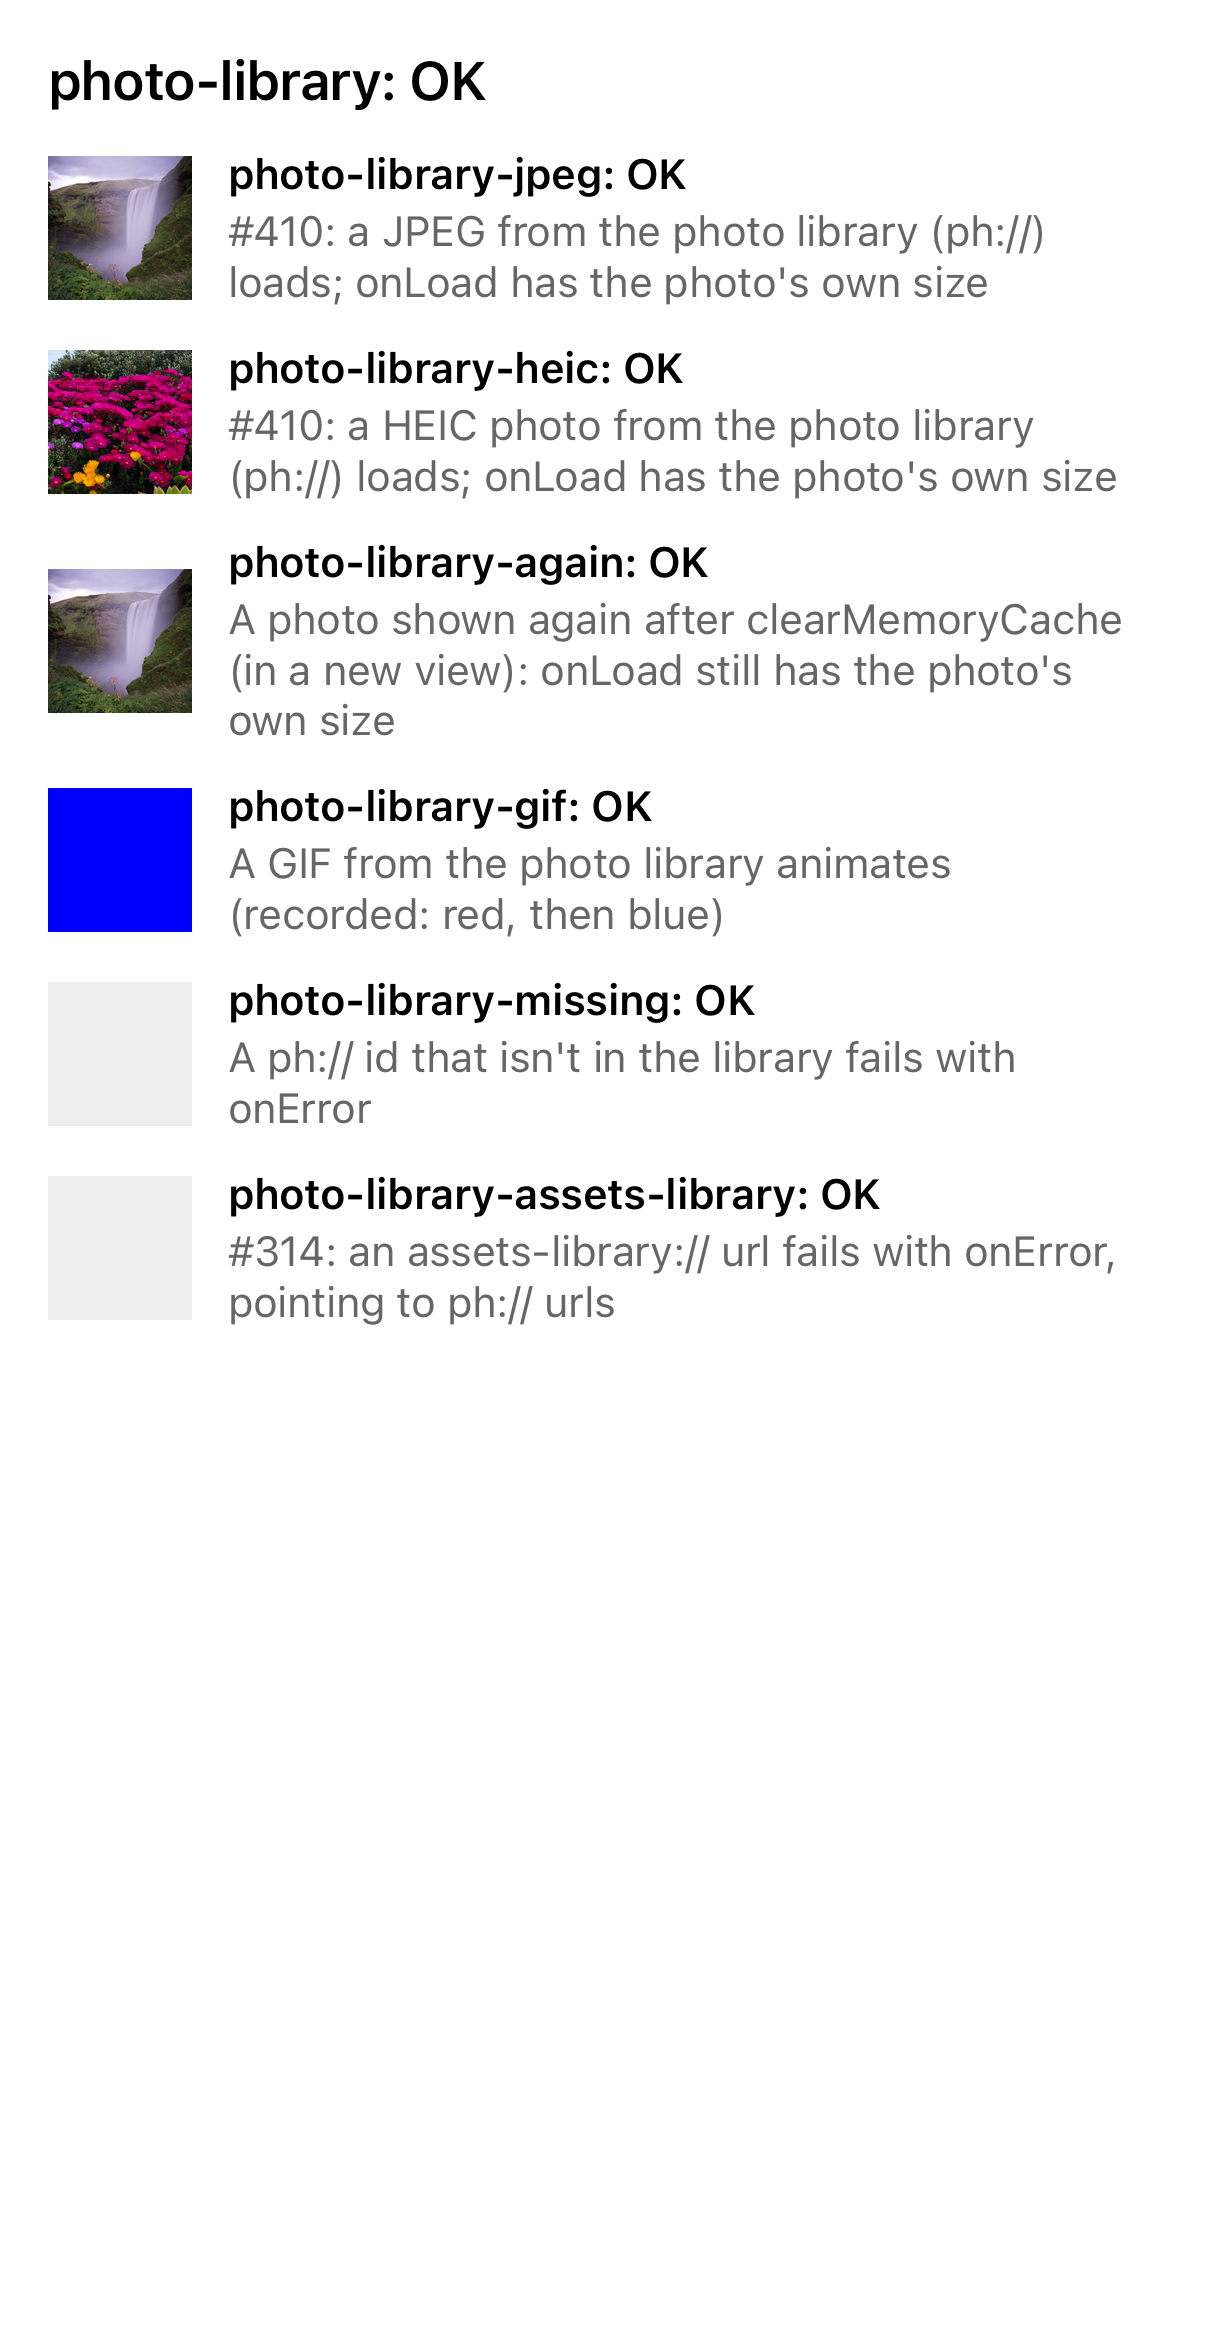
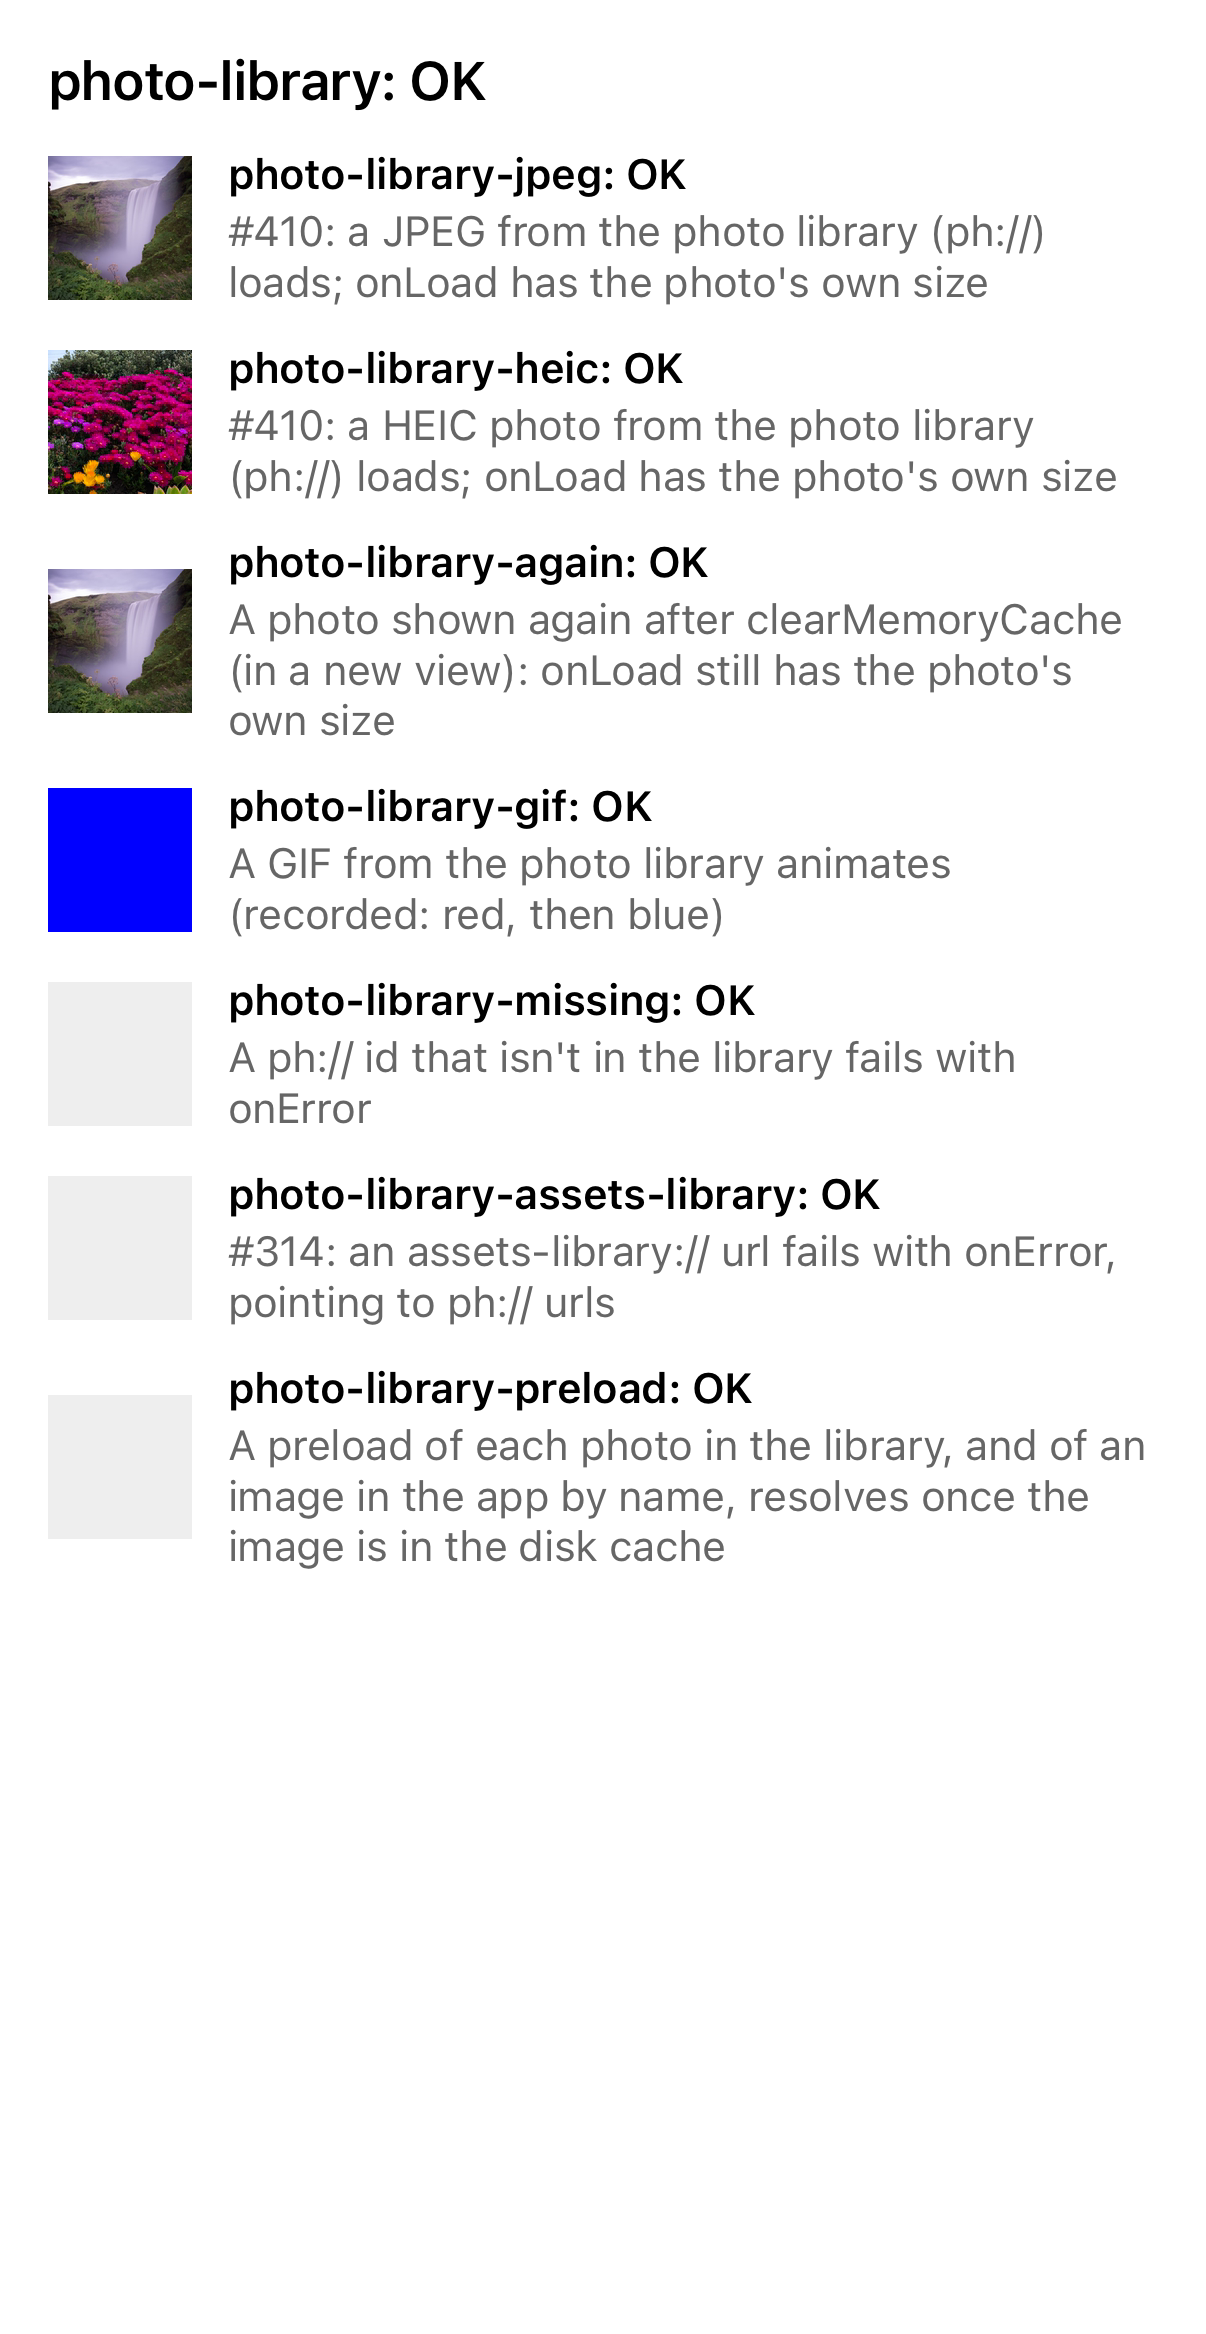
fix(ios): preloads of photo library images and images in the app by name resolve once their image is stored
These preloads resolved once the image had loaded. A still photo from the
photo library or an image in the app by name comes without its data, and
SDWebImage then encoded the image and wrote its file in the background:
the promise resolved while that work was still going on, and an image
preloaded just before clearDiskCache could be written after the clear.
They now use SDWebImageWaitStoreCache, as other preloads do, and resolve
once the file is written.

The work takes as long as before; the promise now includes it. The
iPhone simulator's 7 library images (photos of up to 4288x2848, and a
GIF), preloaded one at a time with nothing cached, resolved in about 0.26
to 0.28 s in all without the wait, while their files were on disk after
about 0.93 to 0.96 s; with the wait, they resolve in about 0.89 to 0.94 s.

The photo-library regression group gets a case: each image in the photo
library, and the quadrants by name in the app, preloaded to disk only
under a cacheKey of its own, must be in the disk cache as soon as its
preload resolves. Its reference screenshots on iOS (both example apps)
and tvOS are seeded again.

Changed region(s): [[0.1841, 0.5861, 0.9511, 0.6787]]

diff --git a/ReactNativeFastImageExample/src/RegressionExample.tsx b/ReactNativeFastImageExample/src/RegressionExample.tsx
@@ -6568,6 +6568,73 @@ function PhotoLibraryErrorCase({
     )
 }
 
+// A preload resolves once its image is stored, also an image that comes
+// without its data, which SDWebImage encodes before it writes its file: each
+// image in the photo library (in the iPhone simulator, photos of up to
+// 4288x2848; a GIF comes with its data) and the quadrants by name in the
+// app. Each is preloaded on its own, to disk only (memoryCache false, so the
+// photos aren't kept in memory), under a cacheKey of this run's, so nothing
+// was cached under it before. As soon as its preload resolves ok,
+// getCachePath with only that cacheKey (a lookup in the disk cache) must
+// find its file. These preloads resolved once the image had loaded, before
+// it was encoded and written: the photos' files and the app image's weren't
+// there yet (on tvOS, whose library has only 80x80 images, the app image's).
+const PHOTO_PRELOAD = `photo-preload-${RUN}`
+function PhotoLibraryPreloadCase() {
+    const [status, setStatus] = useState('listing the photo library')
+    useEffect(() => {
+        let stopped = false
+        const run = async () => {
+            const { authorized, photos } = await libraryPhotos()
+            if (!authorized) return setStatus('no photo library access')
+            if (photos.length === 0) {
+                return setStatus('no photos in the library')
+            }
+            setStatus('preloading')
+            const images = [
+                ...photos.map((photo) => ({
+                    name: `the ${photo.width}x${photo.height} ${photo.type} photo`,
+                    uri: `ph://${photo.id}`,
+                })),
+                { name: 'the image in the app', uri: 'regression_quadrants' },
+            ]
+            const problems: string[] = []
+            for (const [i, { name, uri }] of images.entries()) {
+                const cacheKey = `${PHOTO_PRELOAD}-${i}`
+                const [result] = await FastImage.preload([
+                    { uri, cacheKey, memoryCache: false },
+                ])
+                if (!result.ok) {
+                    problems.push(`${name}: ${result.error}`)
+                    continue
+                }
+                const file = await FastImage.getCachePath({ cacheKey })
+                if (!file.ok) {
+                    problems.push(
+                        `${name}: not in the disk cache when its preload resolved`,
+                    )
+                }
+                if (stopped) return
+            }
+            setStatus(problems.length > 0 ? problems.join('; ') : 'OK')
+        }
+        run().catch((e) => setStatus(`error: ${e}`))
+        return () => {
+            stopped = true
+        }
+    }, [])
+    return (
+        <View style={styles.row}>
+            <View style={styles.image} />
+            <CaseStatus
+                id="photo-library-preload"
+                status={status}
+                description="A preload of each photo in the library, and of an image in the app by name, resolves once the image is in the disk cache"
+            />
+        </View>
+    )
+}
+
 export type { RegressionGroup }
 
 // resizeMode repeat: the image repeated from the top-left at its own size, as
@@ -8417,6 +8484,7 @@ export const REGRESSION_GROUPS: RegressionGroup[] = [
                           expected="ph://"
                           description="#314: an assets-library:// url fails with onError, pointing to ph:// urls"
                       />,
+                      <PhotoLibraryPreloadCase key="photo-library-preload" />,
                   ]
                 : [
                       <NoCrashCase

diff --git a/ios/FastImage/FFFastImageViewManager.m b/ios/FastImage/FFFastImageViewManager.m
@@ -107,14 +107,14 @@ static NSMutableArray<FFFQueuedLoad *> *FFFParked;
 // cancelForClear:). One cancelled before SDWebImage's check reports back at
 // once. One past it is storing its image: a downloaded image's file is
 // written once on SDImageCache's serial queue (see FFFPreloadContext), where
-// it's queued before the clear's delete anyway, and for getCachePath, a
-// photo library image, which comes without its data, is encoded first,
-// which takes a moment for a large photo (a preload of one doesn't wait for
-// it, see FFFPreloadOptions). A loader or cache of the app's own that
-// doesn't report a cancelled load back would otherwise hold the clear, and
-// every preload, getCachePath, writeToCache and configureCache after it, for
-// good. After this the clear goes ahead, and the loads that still haven't
-// reported back resolve with its error and free their slots.
+// it's queued before the clear's delete anyway, and an image that comes
+// without its data (a still photo from the photo library, or for a preload
+// an image in the app by name) is encoded first, which takes a moment for a
+// large photo. A loader or cache of the app's own that doesn't report a
+// cancelled load back would otherwise hold the clear, and every preload,
+// getCachePath, writeToCache and configureCache after it, for good. After
+// this the clear goes ahead, and the loads that still haven't reported back
+// resolve with its error and free their slots.
 static const NSTimeInterval FFFClearWait = 3;
 
 // Where getCachePath looks in the disk cache, writeToCache stores files,
@@ -253,9 +253,8 @@ static void FFFStartPendingPreloads(void);
 // disk cache lookup is done: a load cancelled before that reports back at
 // once, without waiting for its download (SDWebImage calls back a cancelled
 // load), and one past it is storing its image, and reports back once the
-// file is written (SDWebImageWaitStoreCache), so before the clear deletes it.
-// A preload of an image that SDWebImage encodes to store it reports back
-// before it's stored (see FFFPreloadOptions).
+// file is written (SDWebImageWaitStoreCache, see FFFPreloadOptions), so
+// before the clear deletes it.
 - (void)cancelForClear:(dispatch_group_t)clearing
 {
     // Unless an earlier clear already waits for it.
@@ -378,20 +377,16 @@ static SDWebImageMutableContext *FFFPreloadContext(FFFastImageSource *source)
 // to send its headers with its own request only. Failed urls are tried again,
 // as views do (SDWebImage otherwise fails a url that failed before, e.g. with
 // data that isn't an image, without a request until the app is relaunched,
-// #394). It completes once its image is written to the disk cache, so a
-// clear that cancels it can wait for that (see cancelForClear:). Except an
-// image that SDWebImage encodes to store it (loadsWithoutData): encoding the
-// full-size photo first would make a photo library image's preload take
-// about 3 times as long (0.1 to 0.2 s more for a 12 MP photo in the
-// simulator). That preload completes once the image has loaded, and the
-// image is stored in the background, which can be after a clear called
-// meanwhile.
+// #394). It completes once its image is stored, its file written to the
+// disk cache too (SDWebImageWaitStoreCache), so a preload doesn't resolve
+// while that's still going on, and a clear that cancels it can wait for it
+// (see cancelForClear:). An image that comes without its data (a still
+// photo from the photo library, an image in the app by name) is encoded
+// before it's written, which for a large photo is most of its preload's
+// time.
 static SDWebImageOptions FFFPreloadOptions(FFFastImageSource *source)
 {
-    SDWebImageOptions options = [SDWebImagePrefetcher sharedImagePrefetcher].options | SDWebImageRetryFailed;
-    if (!source.loadsWithoutData) {
-        options |= SDWebImageWaitStoreCache;
-    }
+    SDWebImageOptions options = [SDWebImagePrefetcher sharedImagePrefetcher].options | SDWebImageRetryFailed | SDWebImageWaitStoreCache;
     if (source.hasPriority) {
         options &= ~(SDWebImageLowPriority | SDWebImageHighPriority);
         if (source.priority == FFFPriorityLow) {
@@ -500,10 +495,10 @@ static NSString *FFFCachedFile(NSString *key)
     return [cache diskImageDataExistsWithKey:key] ? [cache cachePathForKey:key] : nil;
 }
 
-// Resolves with a result per source, in order, once all have loaded or failed:
-// { ok, width, height } or { ok: false, error }. Never rejects. A source with
-// memoryCache false is only stored on disk, without decoding it (its size
-// comes from the header).
+// Resolves with a result per source, in order, once each has loaded and been
+// stored (see FFFPreloadOptions) or failed: { ok, width, height } or
+// { ok: false, error }. Never rejects. A source with memoryCache false is only
+// stored on disk, without decoding it (its size comes from the header).
 RCT_EXPORT_METHOD(preload:(nonnull NSArray<FFFastImageSource *> *)sources
                   resolve:(RCTPromiseResolveBlock)resolve
                   reject:(__unused RCTPromiseRejectBlock)reject)
@@ -601,10 +596,10 @@ RCT_EXPORT_METHOD(getCachePath:(FFFastImageSource *)source
         }
         dispatch_async(dispatch_get_main_queue(), ^{
             // As a disk-only preload: not decoded, and not looked up in or
-            // kept in memory (an image in memory may not be on disk). It
-            // completes once the file is written, also for an image that
-            // SDWebImage encodes, so it can look for the file.
-            SDWebImageOptions options = FFFPreloadOptions(source) | SDWebImageAvoidDecodeImage | SDWebImageWaitStoreCache;
+            // kept in memory (an image in memory may not be on disk). Like a
+            // preload, it completes once the file is written, so it can look
+            // for the file.
+            SDWebImageOptions options = FFFPreloadOptions(source) | SDWebImageAvoidDecodeImage;
             SDWebImageMutableContext *context = FFFPreloadContext(source);
             context[SDWebImageContextQueryCacheType] = @(SDImageCacheTypeDisk);
             context[SDWebImageContextStoreCacheType] = @(SDImageCacheTypeDisk);

diff --git a/ios/FastImage/FFFastImageSource.h b/ios/FastImage/FFFastImageSource.h
@@ -64,11 +64,6 @@ typedef NS_ENUM(NSInteger, FFFCacheControl) {
 // which is decoded at about the view's size.
 - (BOOL)isPhotoLibrary;
 
-// Whether its loader gives the image without its data (a photo library
-// image, an image in the app by name), so SDWebImage encodes the image to
-// store it in the disk cache.
-- (BOOL)loadsWithoutData;
-
 // The error's message, for onError.
 - (NSString *)errorMessage:(NSError *)error;
 

diff --git a/ios/FastImage/FFFastImageSource.m b/ios/FastImage/FFFastImageSource.m
@@ -385,11 +385,6 @@ static BOOL FFFLooksLikeSVG(NSData *data)
     return [_url.scheme isEqualToString:@"ph"];
 }
 
-- (BOOL)loadsWithoutData
-{
-    return [self isPhotoLibrary] || FFFBundleAssetName(_url) != nil;
-}
-
 - (CGSize)photoPixelSize
 {
     return [self isPhotoLibrary] ? FFFPhotoPixelSize(_url) : CGSizeZero;
